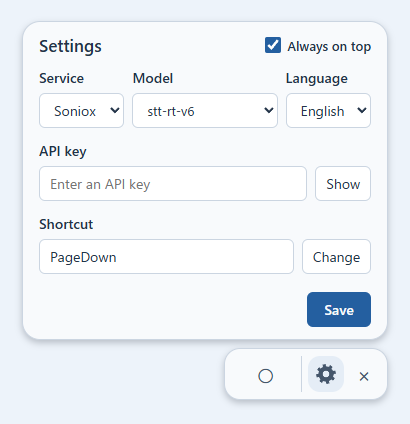
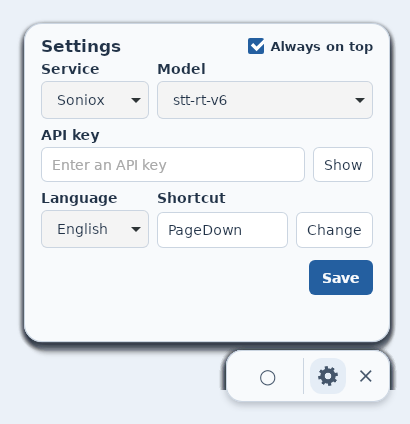
Refresh the README for the v1.1.2 release

diff --git a/README.md b/README.md
@@ -31,7 +31,7 @@ Download the file for your computer, open it, and set up an API key in the gear 
 | macOS (Intel) | macOS 13 or later | Extract the x64 ZIP and open `Voice Typing.app`. | ○ Verified on macOS 15.7.9 |
 | macOS (Apple silicon) | macOS 13 or later | Extract the arm64 ZIP and open `Voice Typing.app`. | × No physical Mac tested (launch verified in CI) |
 
-Dictation with a physical microphone and automatic typing were tested on an Intel Mac. Linux automatic typing is available in builds from `main`. The Linux test used a virtual microphone and a simulated transcription response. Automatic typing on Wayland is currently unsupported.
+Dictation with a physical microphone and automatic typing were tested on an Intel Mac. The Linux test used a virtual microphone and a simulated transcription response. Automatic typing on Wayland is currently unsupported.
 
 ## Quick start
 

diff --git a/README.ja.md b/README.ja.md
@@ -31,7 +31,7 @@
 | macOS（Intel） | macOS 13 以降 | x64 用の ZIP を展開し、`Voice Typing.app` を開きます。 | ○ macOS 15.7.9 で確認済み |
 | macOS（Apple Silicon） | macOS 13 以降 | arm64 用の ZIP を展開し、`Voice Typing.app` を開きます。 | × 実機未確認（CI で起動確認済み） |
 
-Intel Mac の実機で、マイクでの音声入力と自動入力を確認しました。Linux の自動入力は `main` のビルドで利用できます。検証には仮想マイクとテスト用の認識応答を使いました。Wayland での自動入力は現在未対応です。
+Intel Mac の実機で、マイクでの音声入力と自動入力を確認しました。Linux の検証には仮想マイクとテスト用の認識応答を使いました。Wayland での自動入力は現在未対応です。
 
 ## 使い方
 
